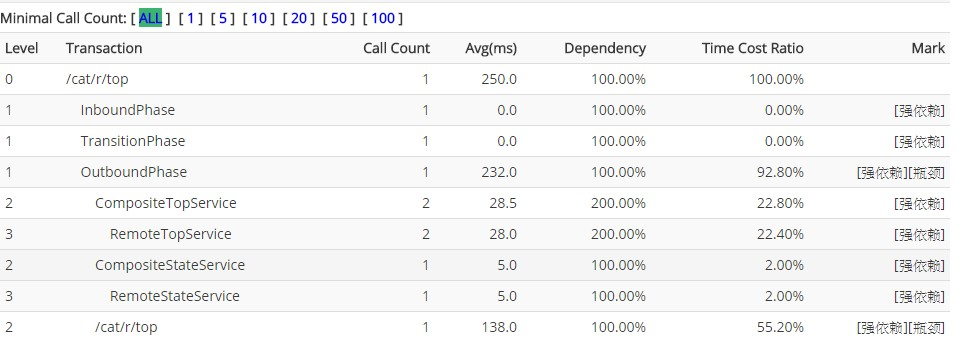
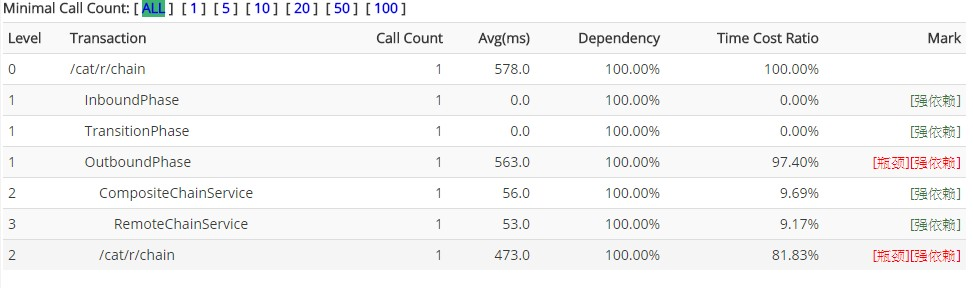
bugfix

diff --git a/cat-home/src/main/java/com/dianping/cat/report/page/chain/task/ChainReportBuilder.java b/cat-home/src/main/java/com/dianping/cat/report/page/chain/task/ChainReportBuilder.java
@@ -35,7 +35,6 @@ public class ChainReportBuilder  implements TaskBuilder, LogEnabled {
 
     @Override
     public boolean buildDailyTask(String name, String domain, Date period) {
-        m_logger.info("Start build daily Chain...");
         try {
             Date end = TaskHelper.tomorrowZero(period);
             ChainReport chainReport = queryReportsByDuration(domain, period, end, TimeHelper.ONE_HOUR);
@@ -49,7 +48,6 @@ public class ChainReportBuilder  implements TaskBuilder, LogEnabled {
             report.setPeriod(period);
             report.setType(1);
             byte[] binaryContent = DefaultNativeBuilder.build(chainReport);
-            m_logger.info("Chain daily report:"+ report);
             return m_reportService.insertDailyReport(report, binaryContent);
         } catch (Exception e) {
             m_logger.error(e.getMessage(), e);
@@ -61,7 +59,6 @@ public class ChainReportBuilder  implements TaskBuilder, LogEnabled {
 
     @Override
     public boolean buildHourlyTask(String name, String domain, Date period) {
-        m_logger.info("Build hourly Chain...");
         return true;
     }
 

diff --git a/cat-home/src/main/java/com/dianping/cat/report/page/chain/Handler.java b/cat-home/src/main/java/com/dianping/cat/report/page/chain/Handler.java
@@ -138,12 +138,18 @@ public class Handler implements PageHandler<Context> {
 
         StringBuilder sb = new StringBuilder();
         if(chain2.getLevel()>0){
-            if(chain2.getDependency()>0.85){
-                sb.append("<div class='sucess'>[强依赖]</div>");
-            }
             if(chain2.getTimeRatio()>0.5 && chain2.getAvg()>100){
-                sb.append("<div class='error'>[瓶颈]</div>");
+                sb.append("<div class='error'>[瓶颈]");
             }
+            if(chain2.getDependency()>0.85){
+                if(sb.length()>0){
+                    sb.append("[强依赖]");
+                }else{
+                    sb.append("<div class='text-success'>[强依赖]");
+                }
+            }
+            sb.append("</div>");
+
         }
         chain2.setRemark(sb.toString());
 
